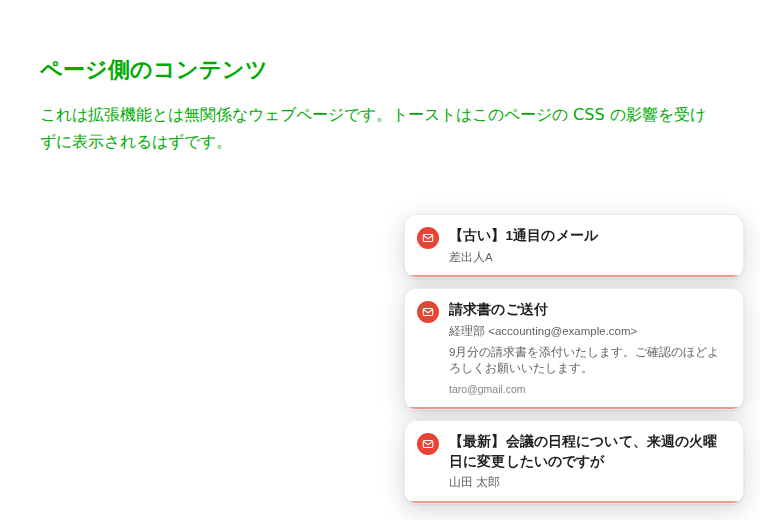
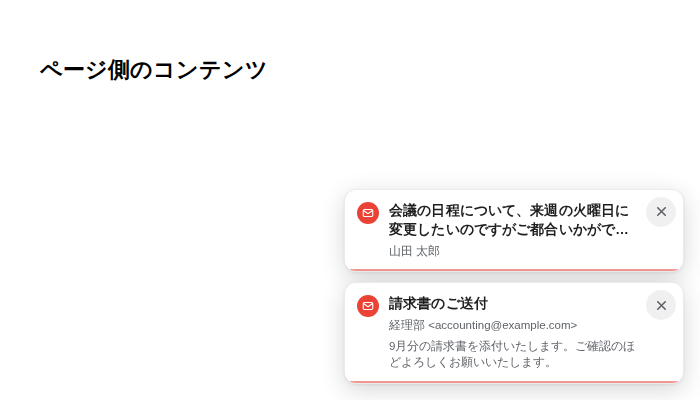
トーストの閉じるボタンを大きくして常時表示にする
20px でホバーするまで透明だったため、狙う前に見えず押しづらかった。

- 30px に拡大し、ホバー前から薄い円の背景付きで見えるようにした
- 見た目より一回り広い当たり判定（40px 相当）を持たせた
- × を文字から線（SVG）に変更して視認性を上げた
- ボタンと本文が重ならないよう右側の余白を確保した
- E2E テストに、閉じるボタンの大きさ・可視性・クリックで閉じることの
  検証を追加

あわせて README に、別の PC で使う手順とウェブストア限定公開などの
選択肢を追記した。

Claude-Session: https://claude.ai/code/session_01CnRRgyKdCxHs3k5NhVdfue

Changed region(s): [[0.48, 0.42, 0.99, 0.99], [0.06, 0.09, 0.93, 0.3]]

diff --git a/src/content/toast.js b/src/content/toast.js
@@ -44,7 +44,7 @@
       display: grid;
       grid-template-columns: 22px 1fr;
       gap: 10px;
-      padding: 11px 12px 12px;
+      padding: 11px 44px 12px 12px;
       border-radius: 12px;
       border: 1px solid rgba(0, 0, 0, 0.08);
       background: #ffffff;
@@ -109,22 +109,25 @@
       text-overflow: ellipsis;
     }
 
+    /* 閉じるボタンは常に見えていないと狙えないので、透明にはしない */
     .close {
       position: absolute;
-      top: 4px; right: 4px;
-      width: 20px; height: 20px;
+      top: 7px; right: 7px;
+      width: 30px; height: 30px;
       border: 0; padding: 0; margin: 0;
       border-radius: 50%;
-      background: transparent;
-      color: #80868b;
-      font: 600 14px/1 system-ui, sans-serif;
+      display: flex; align-items: center; justify-content: center;
+      background: rgba(0, 0, 0, 0.06);
+      color: #5f6368;
       cursor: pointer;
-      opacity: 0;
-      transition: opacity 120ms ease, background 120ms ease;
+      transition: background 120ms ease, color 120ms ease, transform 100ms ease;
     }
-    .toast:hover .close { opacity: 1; }
-    .close:hover { background: rgba(0, 0, 0, 0.08); color: #202124; }
-    .close:focus-visible { opacity: 1; outline: 2px solid #1a73e8; outline-offset: 1px; }
+    .close svg { width: 15px; height: 15px; display: block; }
+    /* 見た目より一回り広い当たり判定 */
+    .close::after { content: ""; position: absolute; inset: -5px; border-radius: 50%; }
+    .close:hover { background: rgba(0, 0, 0, 0.13); color: #202124; }
+    .close:active { transform: scale(0.92); }
+    .close:focus-visible { outline: 2px solid #1a73e8; outline-offset: 2px; }
 
     .progress {
       position: absolute;
@@ -148,13 +151,17 @@
       }
       .meta, .snippet { color: #9aa0a6; }
       .account { color: #80868b; }
-      .close:hover { background: rgba(255, 255, 255, 0.12); color: #e8eaed; }
+      .close { background: rgba(255, 255, 255, 0.1); color: #9aa0a6; }
+      .close:hover { background: rgba(255, 255, 255, 0.2); color: #e8eaed; }
     }
     @media (prefers-reduced-motion: reduce) {
       .toast { transition: none; }
       .progress.run { animation: none; }
     }
   `;
+
+  const CLOSE_MARK = `<svg viewBox="0 0 24 24" aria-hidden="true" fill="none" stroke="currentColor"
+      stroke-width="2.6" stroke-linecap="round"><path d="M6 6l12 12M18 6L6 18"/></svg>`;
 
   const ENVELOPE = `<svg viewBox="0 0 24 24" aria-hidden="true" fill="none" stroke="#fff"
       stroke-width="2.2" stroke-linecap="round" stroke-linejoin="round">
@@ -234,7 +241,7 @@
     const close = document.createElement('button');
     close.className = 'close';
     close.type = 'button';
-    close.textContent = '×';
+    close.innerHTML = CLOSE_MARK;
     close.setAttribute('aria-label', '閉じる');
     close.addEventListener('click', (e) => {
       e.stopPropagation();

diff --git a/README.md b/README.md
@@ -83,6 +83,33 @@ chrome.alarms（既定 1 分）
 | `src/options/` | 設定画面 |
 | `test/` | Node のテストランナーによるテスト |
 
+## 他の PC で使う
+
+このリポジトリを clone して読み込むだけです。
+
+```
+git clone https://github.com/ah24ok2-svg/chromeexpantion-kida.git
+```
+
+あとは [インストール](#インストール) と同じ手順（`chrome://extensions` → デベロッパーモード → パッケージ化されていない拡張機能を読み込む）です。
+更新するときは `git pull` してから `chrome://extensions` で再読み込み（🔄）します。
+
+ただしこの方法には次の制限があります。
+
+- Chrome を起動するたびに「デベロッパーモードの拡張機能を無効にする」という警告が出ることがあります。
+- 自動更新されません。PC ごとに `git pull` と再読み込みが必要です。
+- 設定は PC ごとに別々です（`chrome.storage.local` に保存しているため）。
+
+### どの PC にも自動で入るようにしたい場合
+
+| 方法 | 要るもの | 結果 |
+| --- | --- | --- |
+| **Chrome ウェブストアに限定公開（Unlisted）で出す** | 開発者登録料 $5（初回のみ）、審査 数日 | リンクを知っている人だけがインストールできる。Chrome にログインしていれば**他の PC にも自動で同期**され、更新も自動 |
+| 自前でホストして企業ポリシーで配布（`ExtensionSettings`） | 各 PC の管理者権限・レジストリ / 構成プロファイルの設定 | 会社の管理 PC 向け。個人では手間が大きい |
+| `.crx` ファイルを配る | — | **不可**。Chrome はウェブストア以外からの `.crx` のインストールをブロックします |
+
+実用上は、自分の PC が数台なら clone して読み込む方法、常用するならウェブストアの限定公開がおすすめです。
+
 ## 権限について
 
 | 権限 | 用途 |
